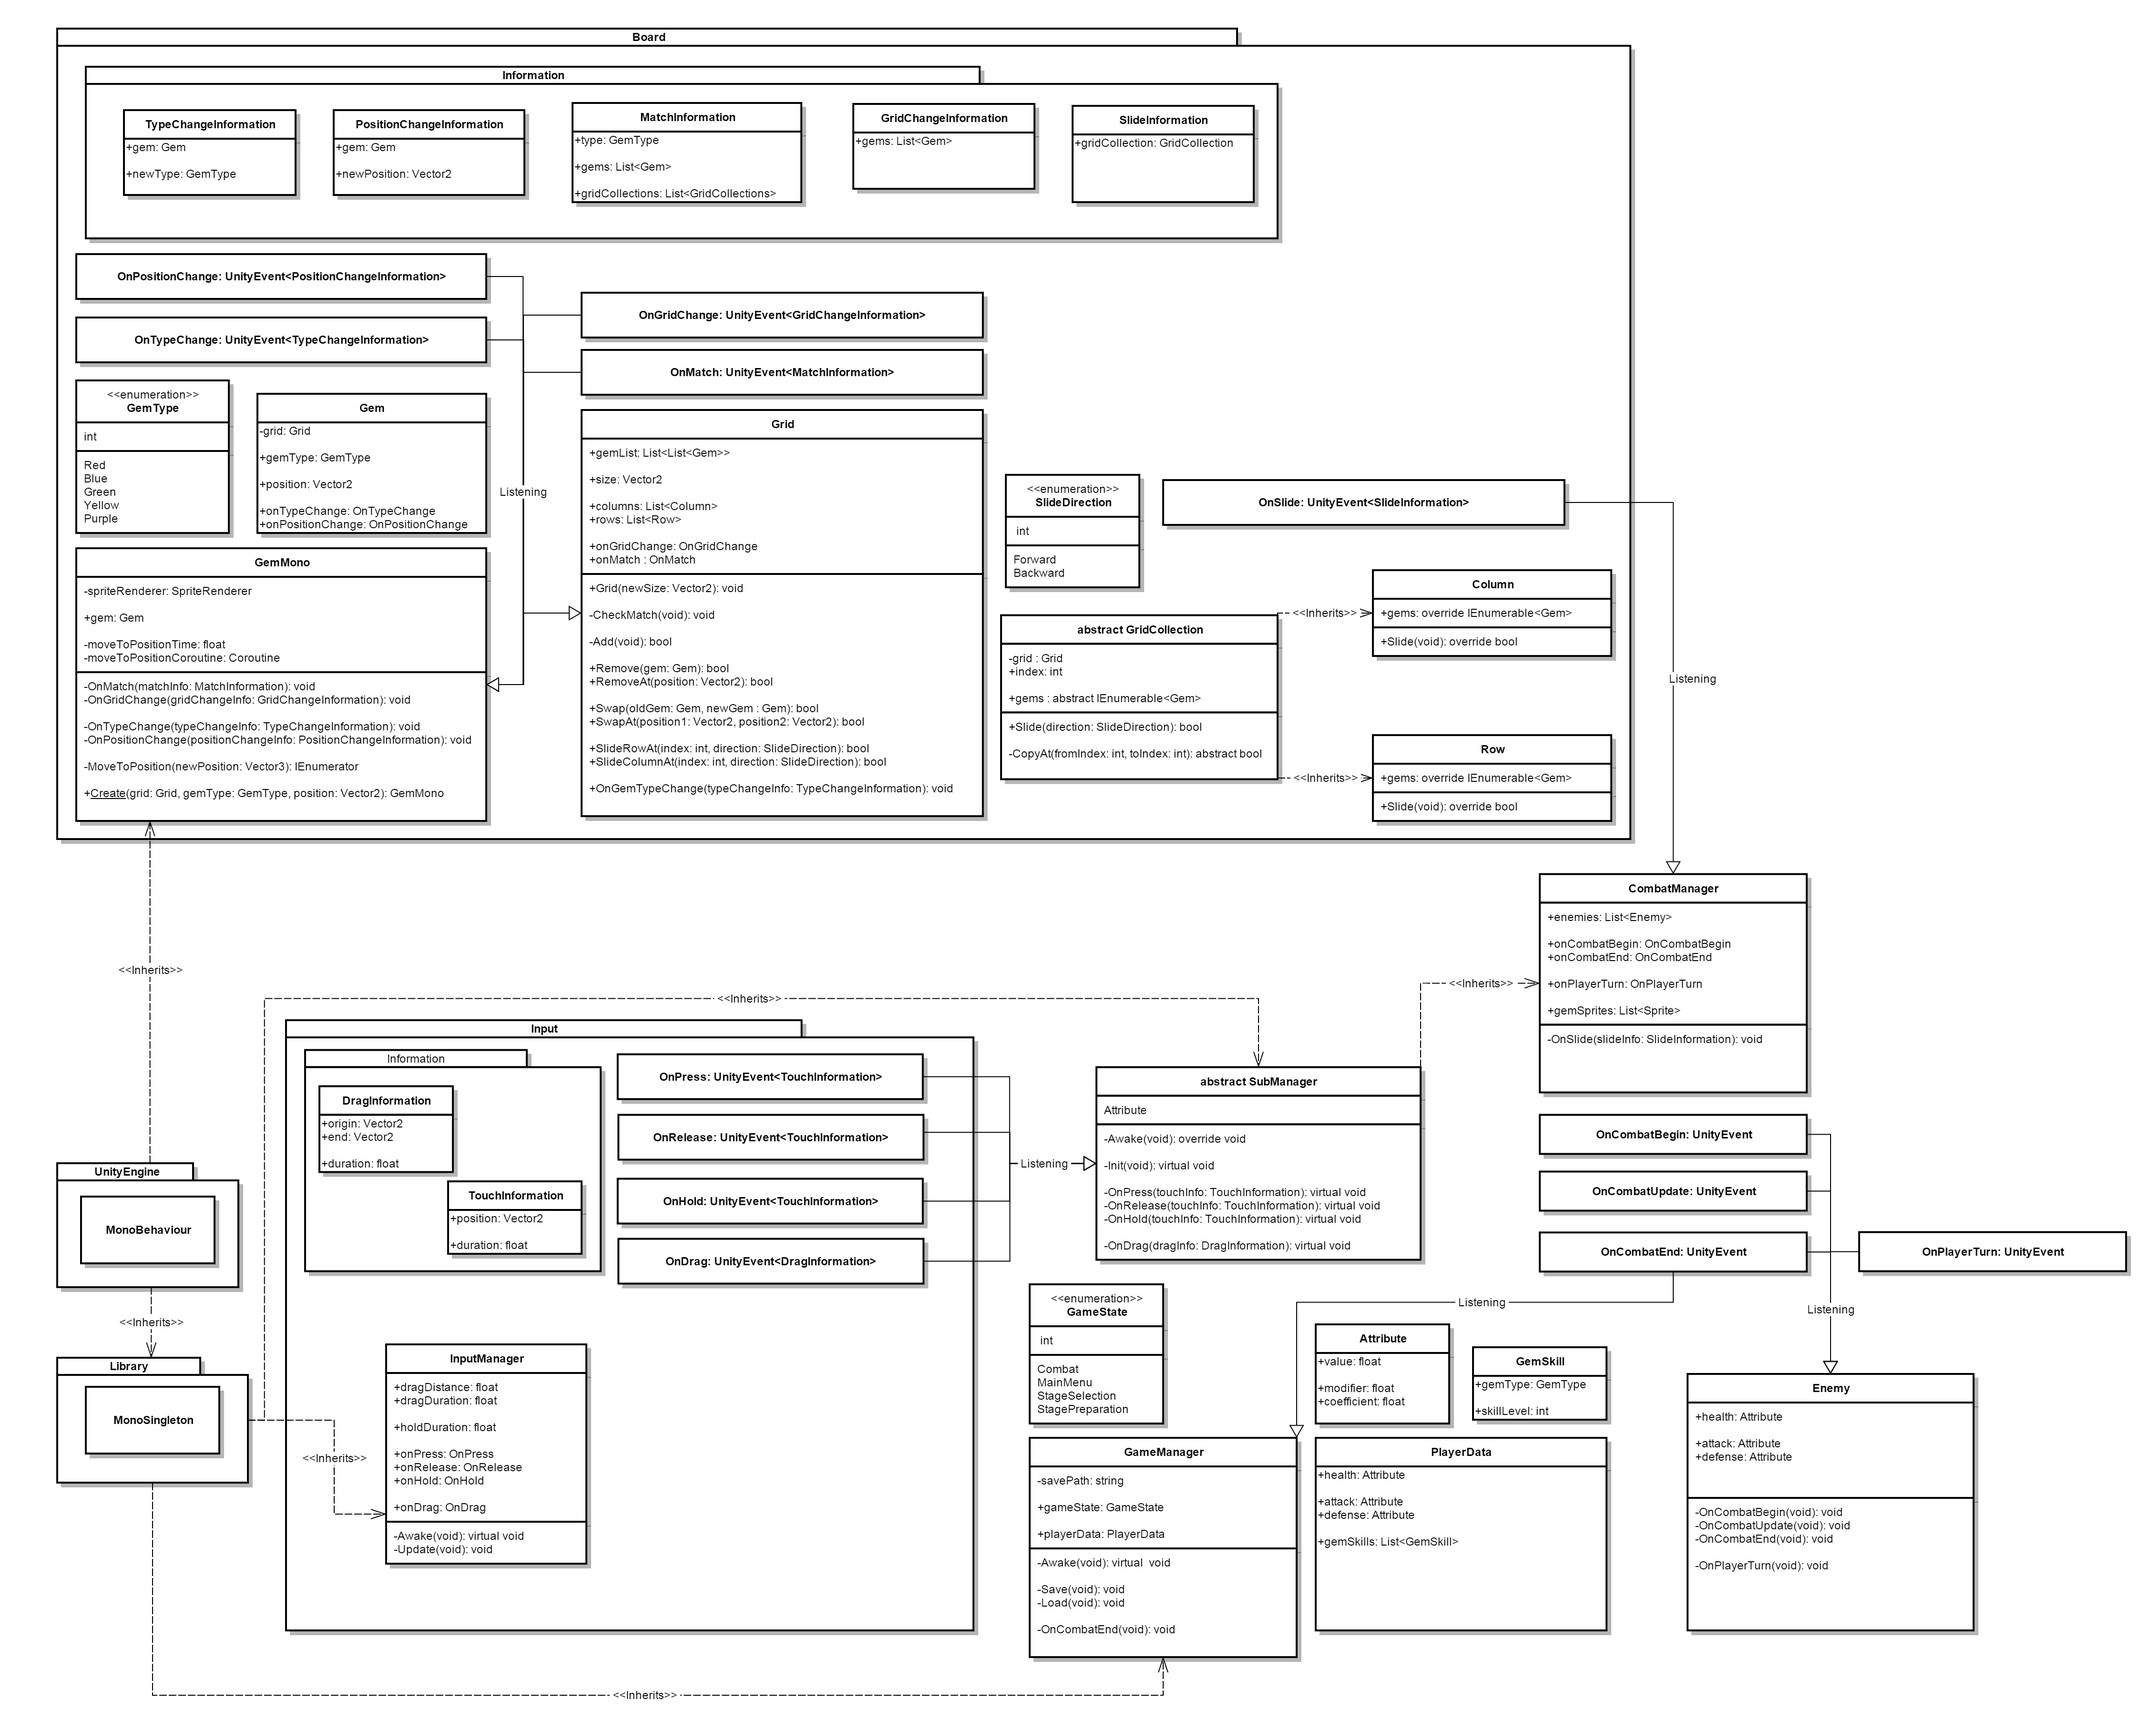
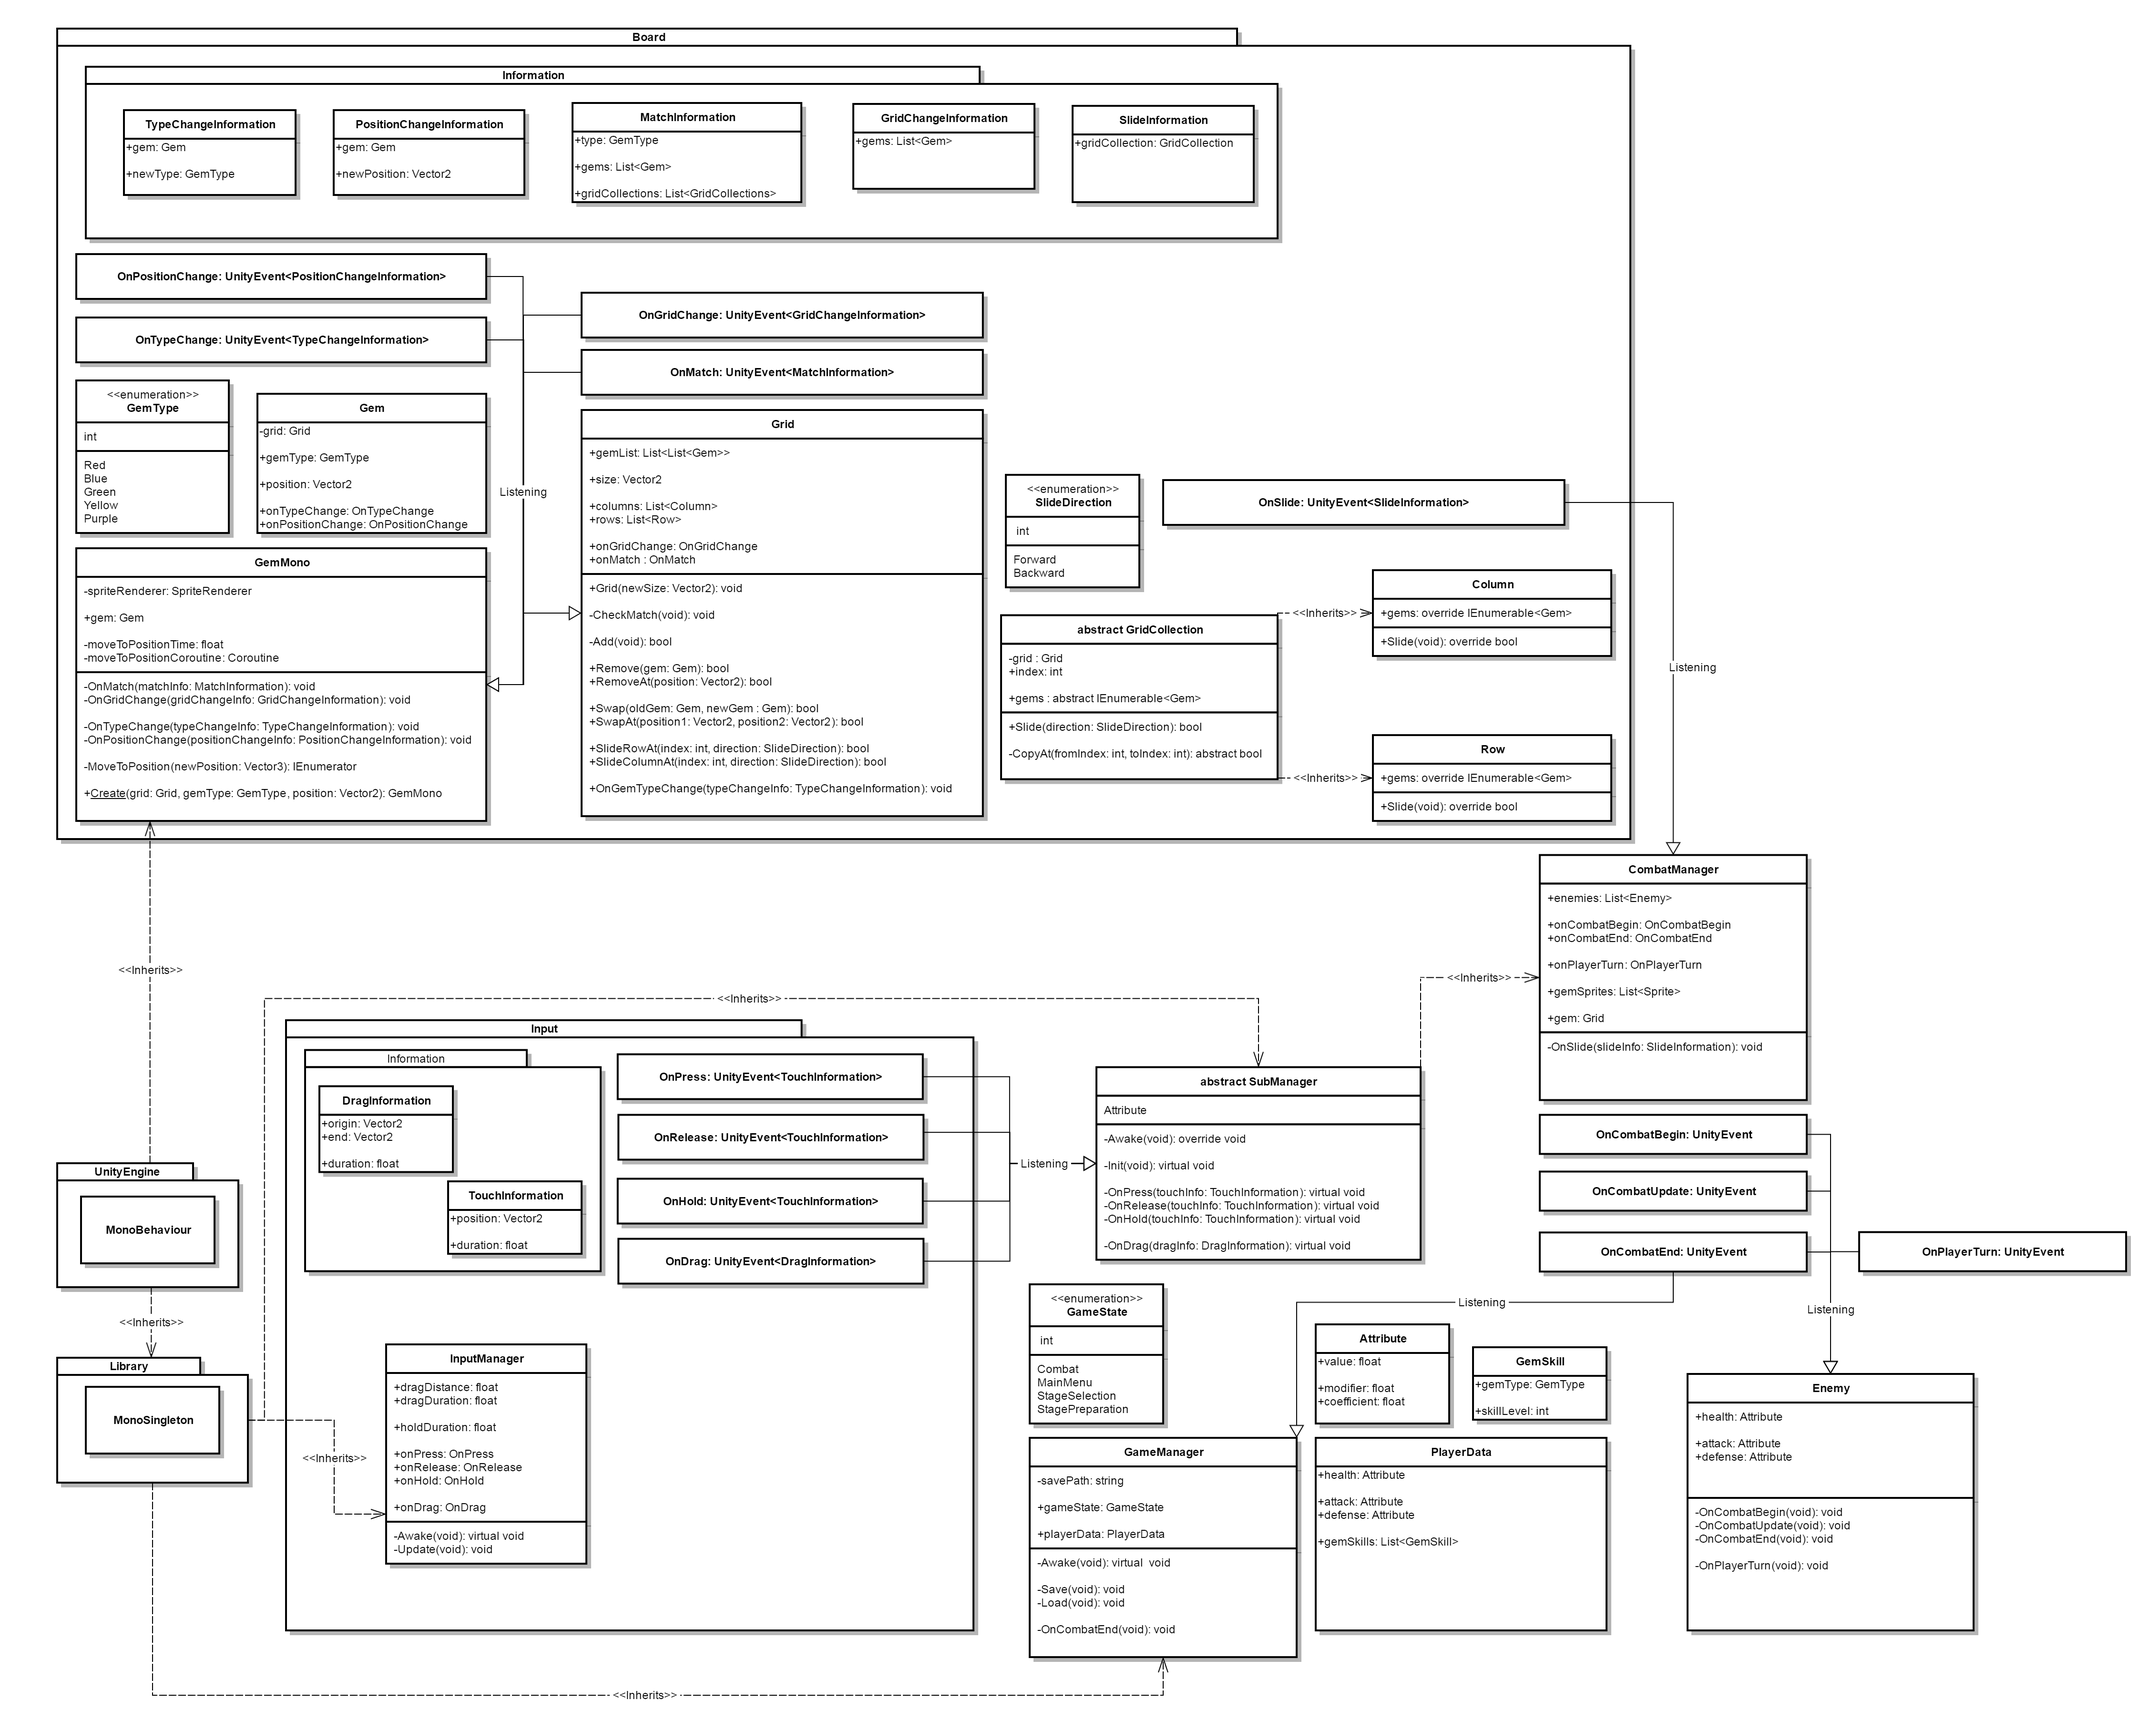
Proper Sliding
Sliding now works on rows and columns

Added a reference to the grid in UML and code for CombatManager.cs

diff --git a/Assets/Scripts/Board/GridCollection.cs b/Assets/Scripts/Board/GridCollection.cs
@@ -25,10 +25,12 @@
 
         public abstract IEnumerable<Gem> gems { get; }
 
-        protected abstract bool CopyAt(int fromIndex, int toIndex);
+        protected abstract bool CopyAt(List<List<Gem>> tempList, int fromIndex, int toIndex);
 
         public bool Slide(SlideDirection direction)
         {
+            var tempList = grid.gemLists.Select(gemList => gemList.ToList()).ToList();
+
             var listCount = gems.Count();
             for (var i = 0; i < listCount; i++)
             {
@@ -50,7 +52,7 @@
                     throw new ArgumentOutOfRangeException("direction", direction, null);
                 }
 
-                var result = CopyAt(i, nextIndex);
+                var result = CopyAt(tempList, i, nextIndex);
                 if (!result)
                     return false;
             }
@@ -68,18 +70,16 @@
             get { return grid.gemLists.Select(gemList => gemList[index]); }
         }
 
-        protected override bool CopyAt(int fromIndex, int toIndex)
+        protected override bool CopyAt(List<List<Gem>> tempList, int fromIndex, int toIndex)
         {
             var listCount = grid.gemLists[0].Count;
             if (fromIndex >= listCount || fromIndex < 0 ||
                 toIndex >= listCount || toIndex < 0)
                 return false;
 
-            var oldPosition = grid.gemLists[toIndex][index].position;
+            grid.gemLists[toIndex][index] = tempList[fromIndex][index];
 
-            grid.gemLists[toIndex][index] = grid.gemLists[fromIndex][index];
-
-            grid.gemLists[toIndex][index].position = oldPosition;
+            grid.gemLists[toIndex][index].position = new Vector2(index, toIndex);
             return true;
         }
     }
@@ -92,18 +92,16 @@
             get { return grid.gemLists[index]; }
         }
 
-        protected override bool CopyAt(int fromIndex, int toIndex)
+        protected override bool CopyAt(List<List<Gem>> tempList, int fromIndex, int toIndex)
         {
             var listCount = grid.gemLists.Count;
             if (fromIndex >= listCount || fromIndex < 0 ||
                 toIndex >= listCount || toIndex < 0)
                 return false;
 
-            var oldPosition = grid.gemLists[index][toIndex].position;
+            grid.gemLists[index][toIndex] = tempList[index][fromIndex];
 
-            grid.gemLists[index][toIndex] = grid.gemLists[index][fromIndex];
-
-            grid.gemLists[index][toIndex].position = oldPosition;
+            grid.gemLists[index][toIndex].position = new Vector2(toIndex, index);
             return true;
         }
     }

diff --git a/Assets/Scripts/CombatManager.cs b/Assets/Scripts/CombatManager.cs
@@ -1,14 +1,11 @@
 using System;
 using System.Collections.Generic;
-using System.Linq;
 
 using Board;
 using Board.Information;
 
 using UnityEngine;
 using UnityEngine.Events;
-
-using Input = UnityEngine.Input;
 
 [Serializable]
 public class OnCombatBegin : UnityEvent { }
@@ -34,6 +31,9 @@ public class CombatManager : SubManager<CombatManager>
     [SerializeField]
     private List<Sprite> m_GemSprites = new List<Sprite>();
 
+    [SerializeField]
+    private Grid m_Grid;
+
     //TODO: public List<Enemy> enemies = new List<>;
     public List<Sprite> gemSprites { get { return m_GemSprites; } }
 
@@ -43,18 +43,18 @@ public class CombatManager : SubManager<CombatManager>
 
     public OnPlayerTurn onPlayerTurn { get { return m_OnPlayerTurn; } }
 
-    private Grid grid;
+    public Grid grid { get { return m_Grid; } }
+
     protected override void Init()
     {
         //TODO: Initialize Combat
 
-        grid = new Grid(new Vector2(5f, 5f));
+        m_Grid = new Grid(new Vector2(5f, 5f));
     }
 
     private void Update()
     {
-        if (UnityEngine.Input.GetKeyDown(KeyCode.RightArrow))
-            grid.rows[0].Slide(SlideDirection.Forward);
+
     }
 
     private void OnSlide(SlideInformation slideInfo)
